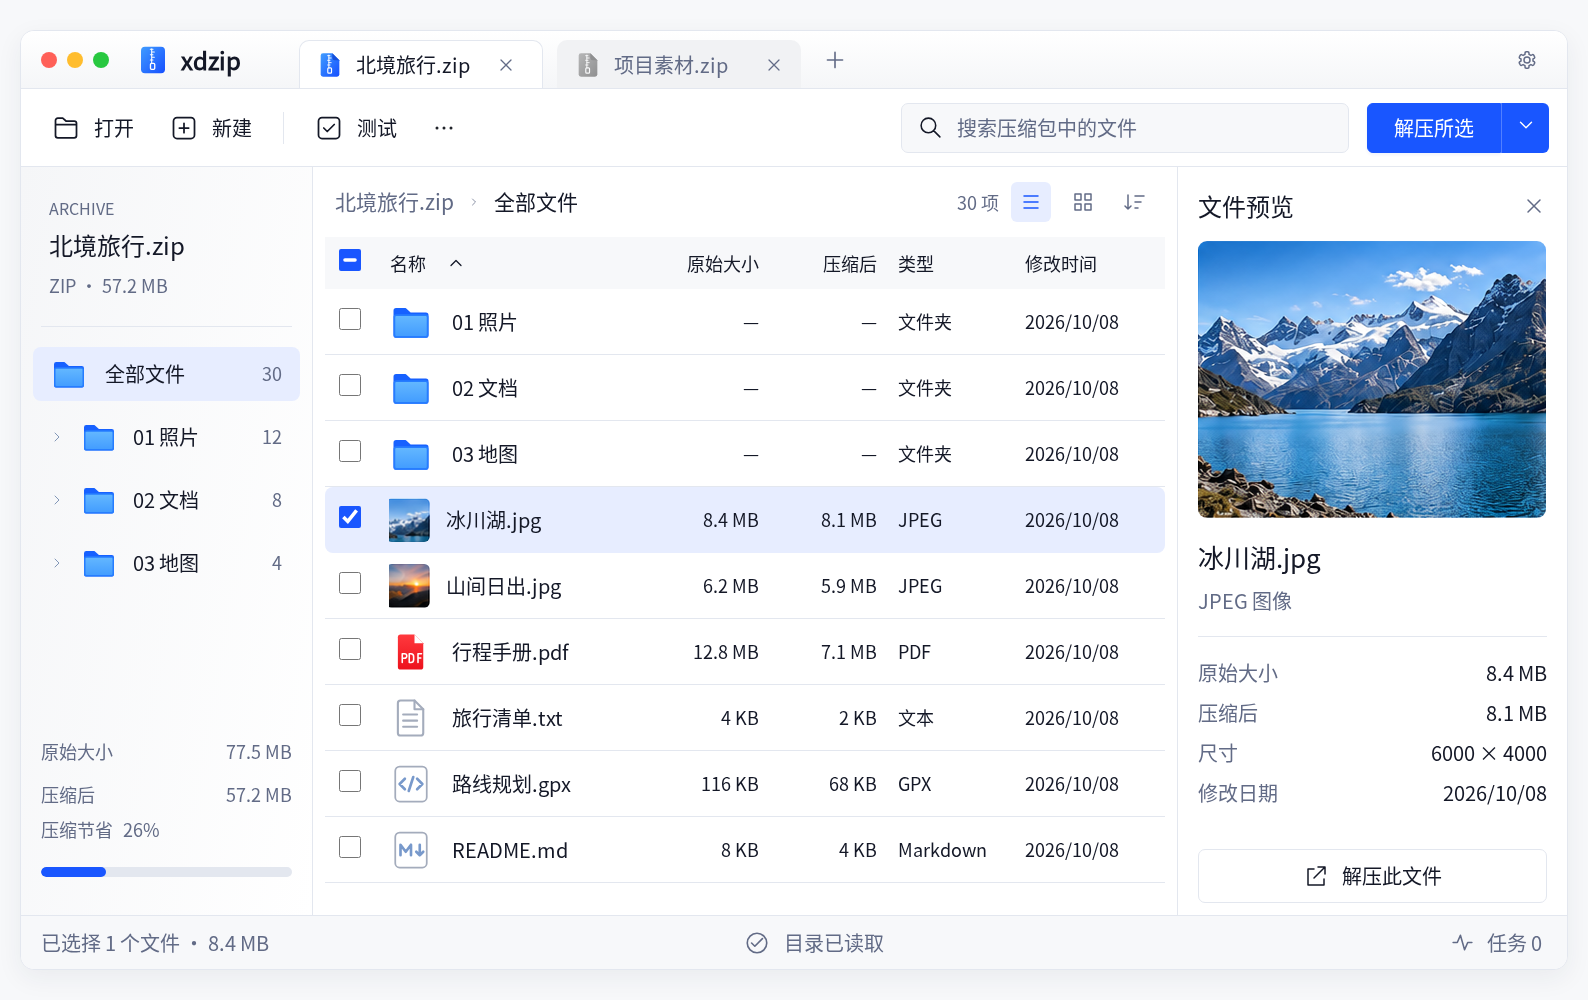
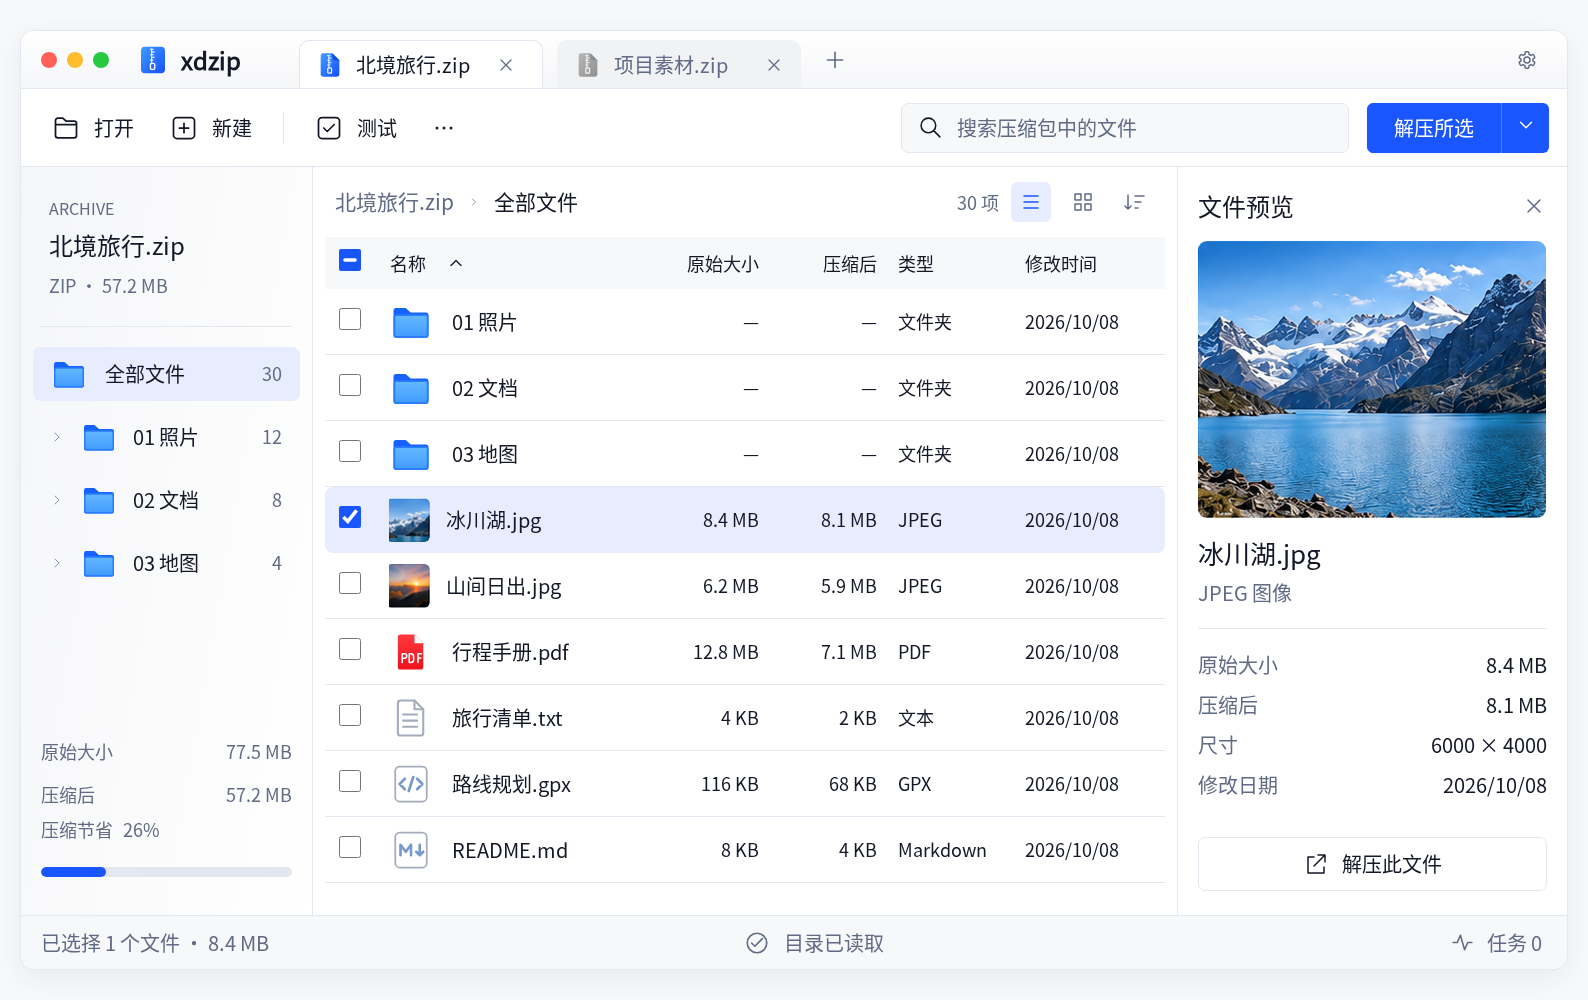
fix(design): fit preview content and preserve the extract action

diff --git a/design/html/hifi.css b/design/html/hifi.css
@@ -78,20 +78,22 @@ tbody tr.selected td { border-bottom-color:transparent; }
 tbody tr.selected td:first-child { border-radius:8px 0 0 8px; }
 tbody tr.selected td:last-child { border-radius:0 8px 8px 0; }
 .selection-hint { display:none; }
-.inspector { width:390px; min-width:390px; padding:24px 20px; border-left:1px solid var(--border); }
-.inspector-head { font-size:24px; line-height:30px; font-weight:600; margin-bottom:20px; }
-.photo-preview { width:348px; height:277px; border-radius:9px; overflow:hidden; margin-bottom:18px; }
+.inspector { width:390px; min-width:390px; min-height:0; padding:24px 20px; border-left:1px solid var(--border); display:flex; flex-direction:column; }
+.inspector-head { font-size:24px; line-height:30px; font-weight:600; margin-bottom:20px; flex-shrink:0; }
+/* Fit the available content width, including space used by classic scrollbars. */
+.photo-preview { width:100%; max-width:348px; height:277px; min-height:160px; border-radius:9px; overflow:hidden; margin-bottom:18px; }
 .photo-preview img { display:block; width:100%; height:100%; object-fit:cover; }
-.inspector h2 { font-size:26px; margin:0 0 8px; }
-.type-label { font-size:20px; color:var(--secondary); }
-.property-list { margin-top:20px; padding-top:16px; border-top:1px solid var(--border); }
+.inspector h2 { font-size:26px; line-height:34px; margin:0 0 8px; flex-shrink:0; }
+.type-label { font-size:20px; line-height:30px; color:var(--secondary); flex-shrink:0; }
+.property-list { margin:20px 0 18px; padding-top:16px; border-top:1px solid var(--border); flex-shrink:0; }
 .property { display:flex; justify-content:space-between; margin:0; padding:10px 0; font-size:20px; }
-.property dt { color:var(--secondary); }
-.property dd { margin:0; }
-.inspector>.button { width:100%; height:54px; margin-top:18px; font-size:20px; gap:14px; border-radius:7px; }
+.property dt { color:var(--secondary); flex-shrink:0; }
+.property dd { margin:0; min-width:0; overflow-wrap:anywhere; }
+.inspector>.button { width:100%; height:54px; margin-top:auto; font-size:20px; gap:14px; border-radius:7px; flex-shrink:0; }
 .inspector>.button svg { width:24px; height:24px; }
 .inspector-footnote { display:none; }
 .file-emblem { height:277px; border-radius:9px; }
+.inspector>.file-emblem { min-height:120px; margin:0 0 18px; }
 .file-emblem svg { width:92px; height:112px; }
 .statusbar { height:54px; padding:0 20px; font-size:20px; flex-shrink:0; }
 .status-spacer { flex:0; }

diff --git a/scripts/check-html-preview.py b/scripts/check-html-preview.py
@@ -1,0 +1,91 @@
+#!/usr/bin/env python3
+"""Check preview fit and reachable actions in the offline desktop artboard."""
+from pathlib import Path
+import json
+import os
+from playwright.sync_api import sync_playwright, expect
+
+ROOT = Path(__file__).resolve().parents[1]
+OUTPUT = ROOT / 'dist/html-preview-review'
+OUTPUT.mkdir(parents=True, exist_ok=True)
+METRICS = '''() => {
+    const panel = document.querySelector('#inspector');
+    const button = document.querySelector('#inspector-extract');
+    const rect = panel.getBoundingClientRect();
+    const action = button.getBoundingClientRect();
+    return {width: panel.clientWidth, scrollWidth: panel.scrollWidth,
+        height: panel.clientHeight, scrollHeight: panel.scrollHeight,
+        buttonVisible: action.bottom <= rect.top + panel.clientHeight
+            && action.top >= rect.top};
+}'''
+checks, errors = [], []
+with sync_playwright() as playwright:
+    browser = playwright.chromium.launch(
+        executable_path=os.environ.get('XDZIP_CHROMIUM', '/usr/bin/chromium'),
+        args=['--no-sandbox', '--disable-dev-shm-usage'])
+    try:
+        for width in [1588, 1200, 390]:
+            page = browser.new_page(viewport={'width': width, 'height': 1000})
+            page.on('pageerror', lambda error: errors.append(str(error)))
+            page.route('**/*', lambda route: route.abort())
+            page.set_content((ROOT / 'dist/xdzip-hifi-design.html').read_text())
+            panel = page.frame_locator('#design-frame').locator('#inspector')
+            expect(panel.locator('#inspector-extract')).to_be_visible()
+            frame = next(frame for frame in page.frames if frame.parent_frame)
+            for classic in [False, True]:
+                # Reserve classic scrollbar space without relying on host settings.
+                frame.eval_on_selector('#inspector', '(p, enabled) => p.style.scrollbarGutter = enabled ? "stable" : "auto"', classic)
+                for theme in ['light', 'dark']:
+                    page.select_option('#theme', theme)
+                    expect(panel.locator('h2')).to_have_text('冰川湖.jpg')
+                    metrics = frame.evaluate(METRICS)
+                    assert metrics['scrollWidth'] <= metrics['width'], metrics
+                    assert metrics['scrollHeight'] <= metrics['height'], metrics
+                    assert metrics['buttonVisible'], metrics
+                    checks.append({'outerWidth': width, 'classicGutter': classic,
+                        'theme': theme, **metrics})
+            if width == 1588:
+                page.select_option('#theme', 'light')
+                frame.eval_on_selector('#inspector', '(p) => p.style.scrollbarGutter = "auto"')
+                panel.screenshot(path=str(OUTPUT / 'preview.png'))
+                frame.locator('.stage').screenshot(path=str(OUTPUT / 'main.png'))
+                frame.eval_on_selector('#inspector', '(p) => p.style.scrollbarGutter = "stable"')
+                # Exercise other metadata layouts through actual row selection.
+                for row in ['guide', 'photos']:
+                    frame.locator(f'tr[data-id="{row}"]').click()
+                    metrics = frame.evaluate(METRICS)
+                    assert metrics['scrollWidth'] <= metrics['width'], metrics
+                    assert metrics['buttonVisible'], metrics
+                    checks.append({'selection': row, **metrics})
+                frame.locator('tr[data-id="guide"] input').check()
+                expect(panel.locator('h2')).to_have_text('13 个文件')
+                metrics = frame.evaluate(METRICS)
+                assert metrics['scrollWidth'] <= metrics['width'], metrics
+                assert metrics['buttonVisible'], metrics
+                checks.append({'selection': 'multiple files', **metrics})
+                frame.locator('tr[data-id="photos"] input').uncheck()
+                frame.locator('tr[data-id="guide"] input').uncheck()
+                expect(panel.locator('h2')).to_have_text('北境旅行.zip')
+                metrics = frame.evaluate(METRICS)
+                assert metrics['scrollWidth'] <= metrics['width'], metrics
+                assert metrics['buttonVisible'], metrics
+                checks.append({'selection': 'archive metadata', **metrics})
+                # Long names and metadata may scroll vertically, but actions remain reachable.
+                frame.eval_on_selector('#inspector h2', '(e) => e.textContent = "长文件名".repeat(60) + ".pdf"')
+                frame.eval_on_selector('.property dd', '(e) => e.textContent = "长属性值".repeat(40)')
+                frame.eval_on_selector('#inspector', '(p) => {p.style.scrollbarGutter="stable"; p.scrollTop=p.scrollHeight}')
+                metrics = frame.evaluate(METRICS)
+                assert metrics['scrollWidth'] <= metrics['width'], metrics
+                assert metrics['buttonVisible'], metrics
+                checks.append({'selection': 'long metadata', **metrics})
+                frame.locator('#inspector-extract').click()
+                expect(frame.locator('dialog[open]')).to_be_visible()
+            page.close()
+        assert not errors, errors
+    finally:
+        browser.close()
+        (OUTPUT / 'validation.json').write_text(json.dumps(
+            {'checks': checks, 'page_errors': errors,
+             'scope': 'Offline Chromium layout; classic scrollbar space simulated'},
+            ensure_ascii=False, indent=2) + '\n')
+print(f'{len(checks)} preview layout checks passed')

diff --git a/design/html/README.md b/design/html/README.md
@@ -43,3 +43,5 @@
 验证运行 `python scripts/check-html-design.py`，报告位于 `dist/html-design-review/validation.json`。它验证示例流程和交付可用性，不代表产品格式、安全或原生窗口验收。
 
 原稿加载专项检查：`python scripts/check-html-references.py`，覆盖普通网页、断网单文件和隔离来源画布，验证六个原稿均可解码、两个无原稿状态正确隐藏图片，以及画布配置不依赖同源 DOM 访问。
+
+预览栏布局专项检查：`python scripts/check-html-preview.py`。覆盖桌面与手机外层缩放、浅深色、经典滚动条空间、照片/PDF/目录/多选/归档属性以及长名称。正常照片预览完整显示操作按钮，无内部横纵滚动；长内容保留纵向滚动，避免截断属性和操作。
